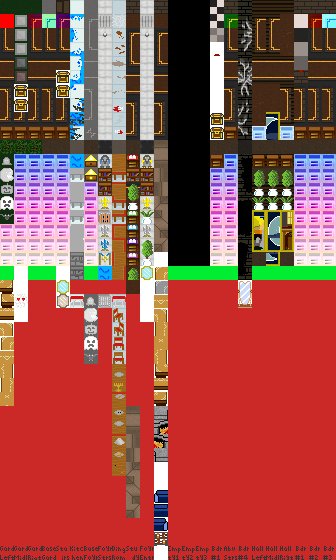
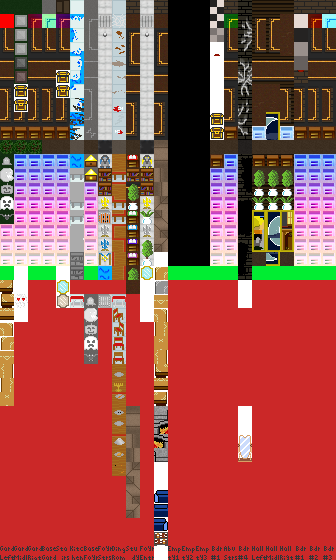
Fixed bedroom mirror being pushable tile, moved levelEditor worldGrid output text outside of <center> tag

Changed region(s): [[0.6845, 0.6982, 0.7738, 0.85], [0.6845, 0.4857, 0.7738, 0.5768]]

diff --git a/js/World.js b/js/World.js
@@ -147,7 +147,7 @@ var levelHallwayRight =
 
 var levelBedroomFour =
 [
-10, 10, 10, 10, 10, 10, 10, 10, 10, 10, 10, 10, 10, 10, 10, 10, 10, 10, 10, 10, 10, 10, 10, 10, 10, 10, 10, 10, 10, 10, 10, 10, 10, 10, 10, 0, 0, 0, 0, 0, 0, 0, 10, 10, 10, 10, 10, 10, 10, 10, 0, 1, 4, 7, 0, 0, 0, 0, 0, 10, 10, 10, 10, 10, 10, 10, 0, 2, 5, 8, 0, 0, 0, 20, 0, 10, 10, 10, 10, 10, 10, 10, 0, 3, 6, 9, 0, 0, 0, 21, 0, 10, 10, 10, 10, 10, 10, 10, 10, 0, 0, 0, 0, 0, 0, 0, 10, 10, 10, 10, 10, 10, 10, 10, 10, 10, 10, 10, 10, 0, 10, 10, 10, 10, 10, 10, 10, 10, 10, 10, 10, 10, 10, 10, 10, 0, 10, 10, 10, 10, 10, 10, 10, 10, 10, 10, 10, 10, 10, 10, 10, 0, 10, 10, 10, 10, 10, 10, 10, 10
+10, 10, 10, 10, 10, 10, 10, 10, 10, 10, 10, 10, 10, 10, 10, 10, 10, 10, 10, 10, 10, 10, 10, 10, 10, 10, 10, 10, 10, 10, 10, 10, 10, 10, 10, 0, 0, 0, 0, 0, 0, 0, 10, 10, 10, 10, 10, 10, 10, 10, 0, 1, 4, 7, 0, 0, 0, 0, 0, 10, 10, 10, 10, 10, 10, 10, 0, 2, 5, 8, 0, 0, 0, 31, 0, 10, 10, 10, 10, 10, 10, 10, 0, 3, 6, 9, 0, 0, 0, 32, 0, 10, 10, 10, 10, 10, 10, 10, 10, 0, 0, 0, 0, 0, 0, 0, 10, 10, 10, 10, 10, 10, 10, 10, 10, 10, 10, 10, 10, 0, 10, 10, 10, 10, 10, 10, 10, 10, 10, 10, 10, 10, 10, 10, 10, 0, 10, 10, 10, 10, 10, 10, 10, 10, 10, 10, 10, 10, 10, 10, 10, 0, 10, 10, 10, 10, 10, 10, 10, 10
 ];
 
 var levelKitchenBedroomFourMerged =

diff --git a/index.html b/index.html
@@ -32,7 +32,6 @@
     <body>
         <center>
             <canvas id="gameCanvas"></canvas>
-            <p id="levelEditorOutputText"></p>
             <script src="js/GraphicsCommon.js"></script>
             <script src="js/ImageLoading.js"></script>
             <script src="js/Sounds.js"></script>
@@ -53,6 +52,7 @@
             <p><input id="bgMusicSlider" type="range" min="0" max="1" step=".05" value="1" onchange="changeVolume()" title="Music and sound volume"></p>
             <p>Made by members of <a href="http://www.gamkedo.club" target="_blank">Gamkedo Club</a>. Press Esc in-game for full credits.</p>
         </center>
+            <p id="levelEditorOutputText"></p>
         <script>
           (function(i,s,o,g,r,a,m){i['GoogleAnalyticsObject']=r;i[r]=i[r]||function(){
           (i[r].q=i[r].q||[]).push(arguments)},i[r].l=1*new Date();a=s.createElement(o),
